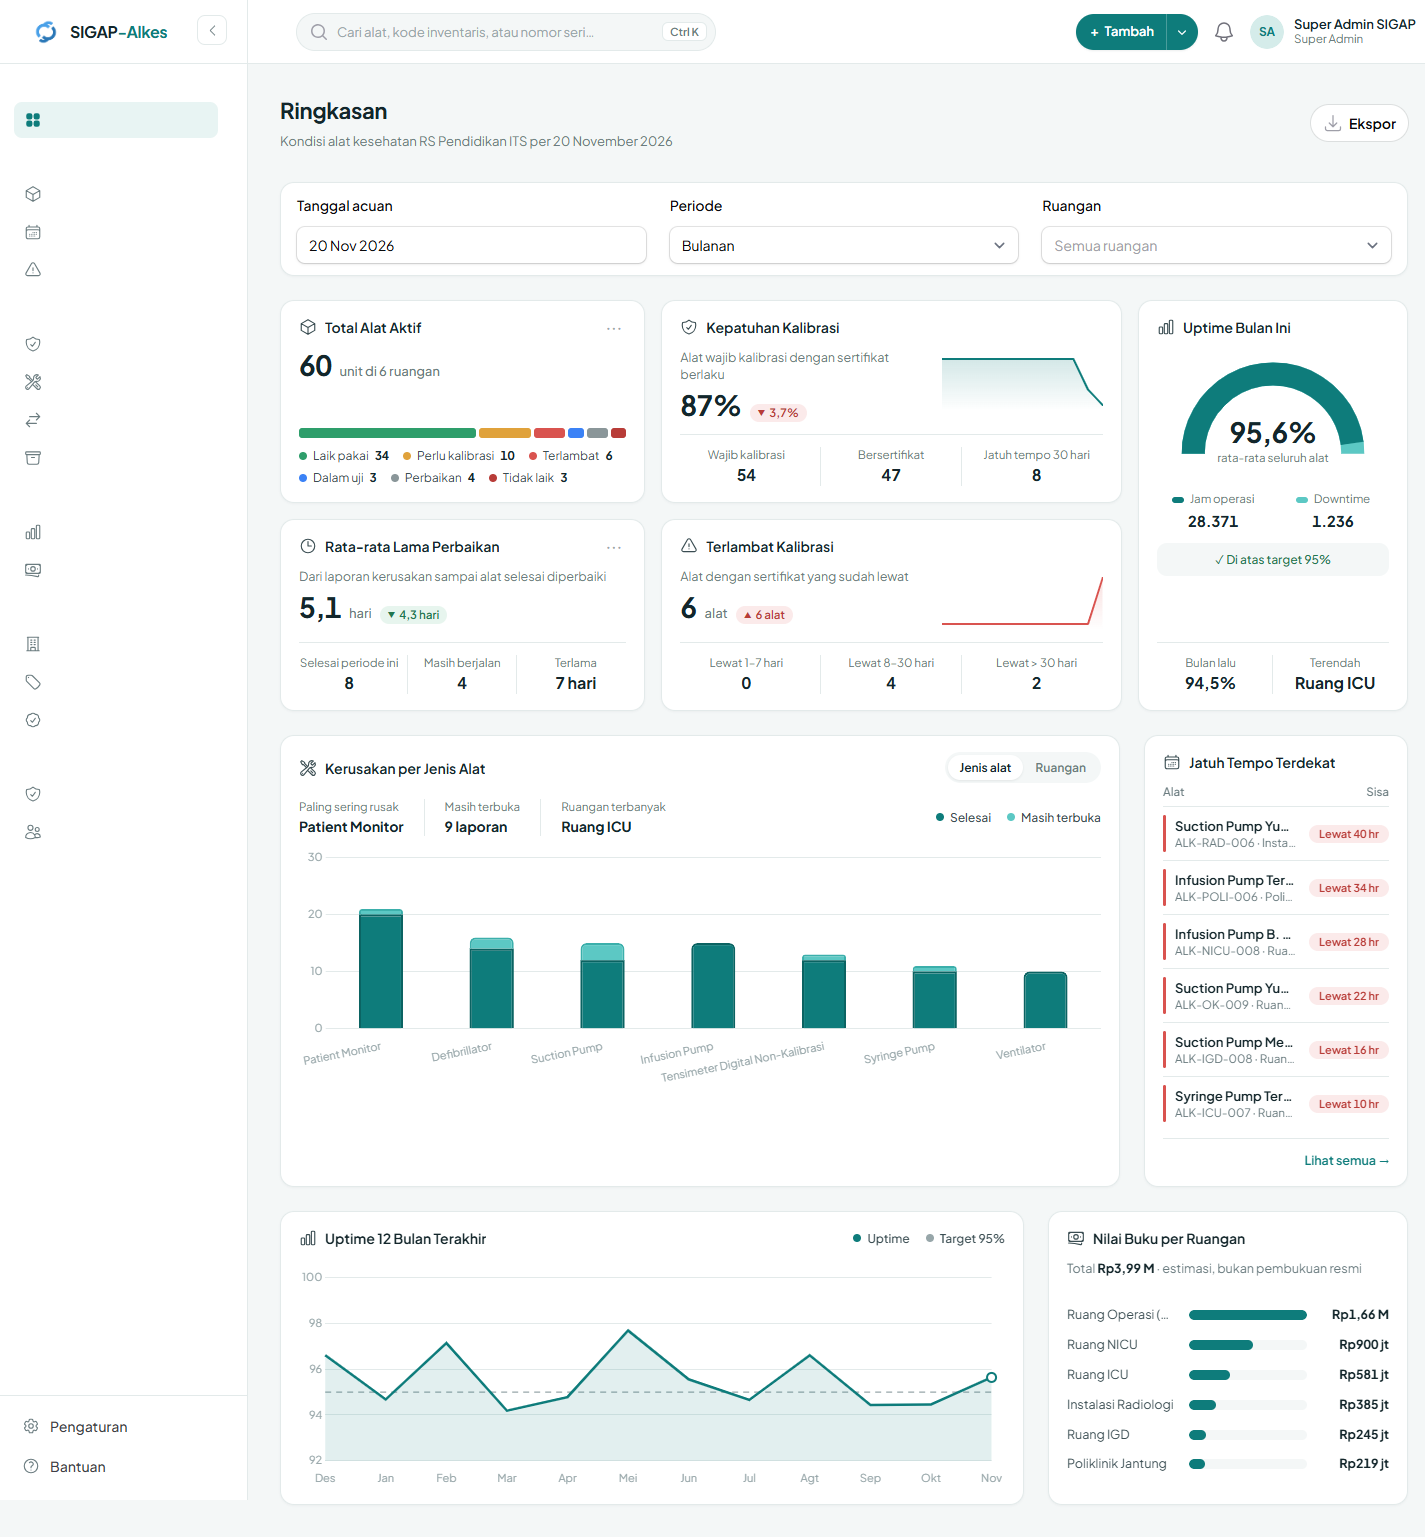
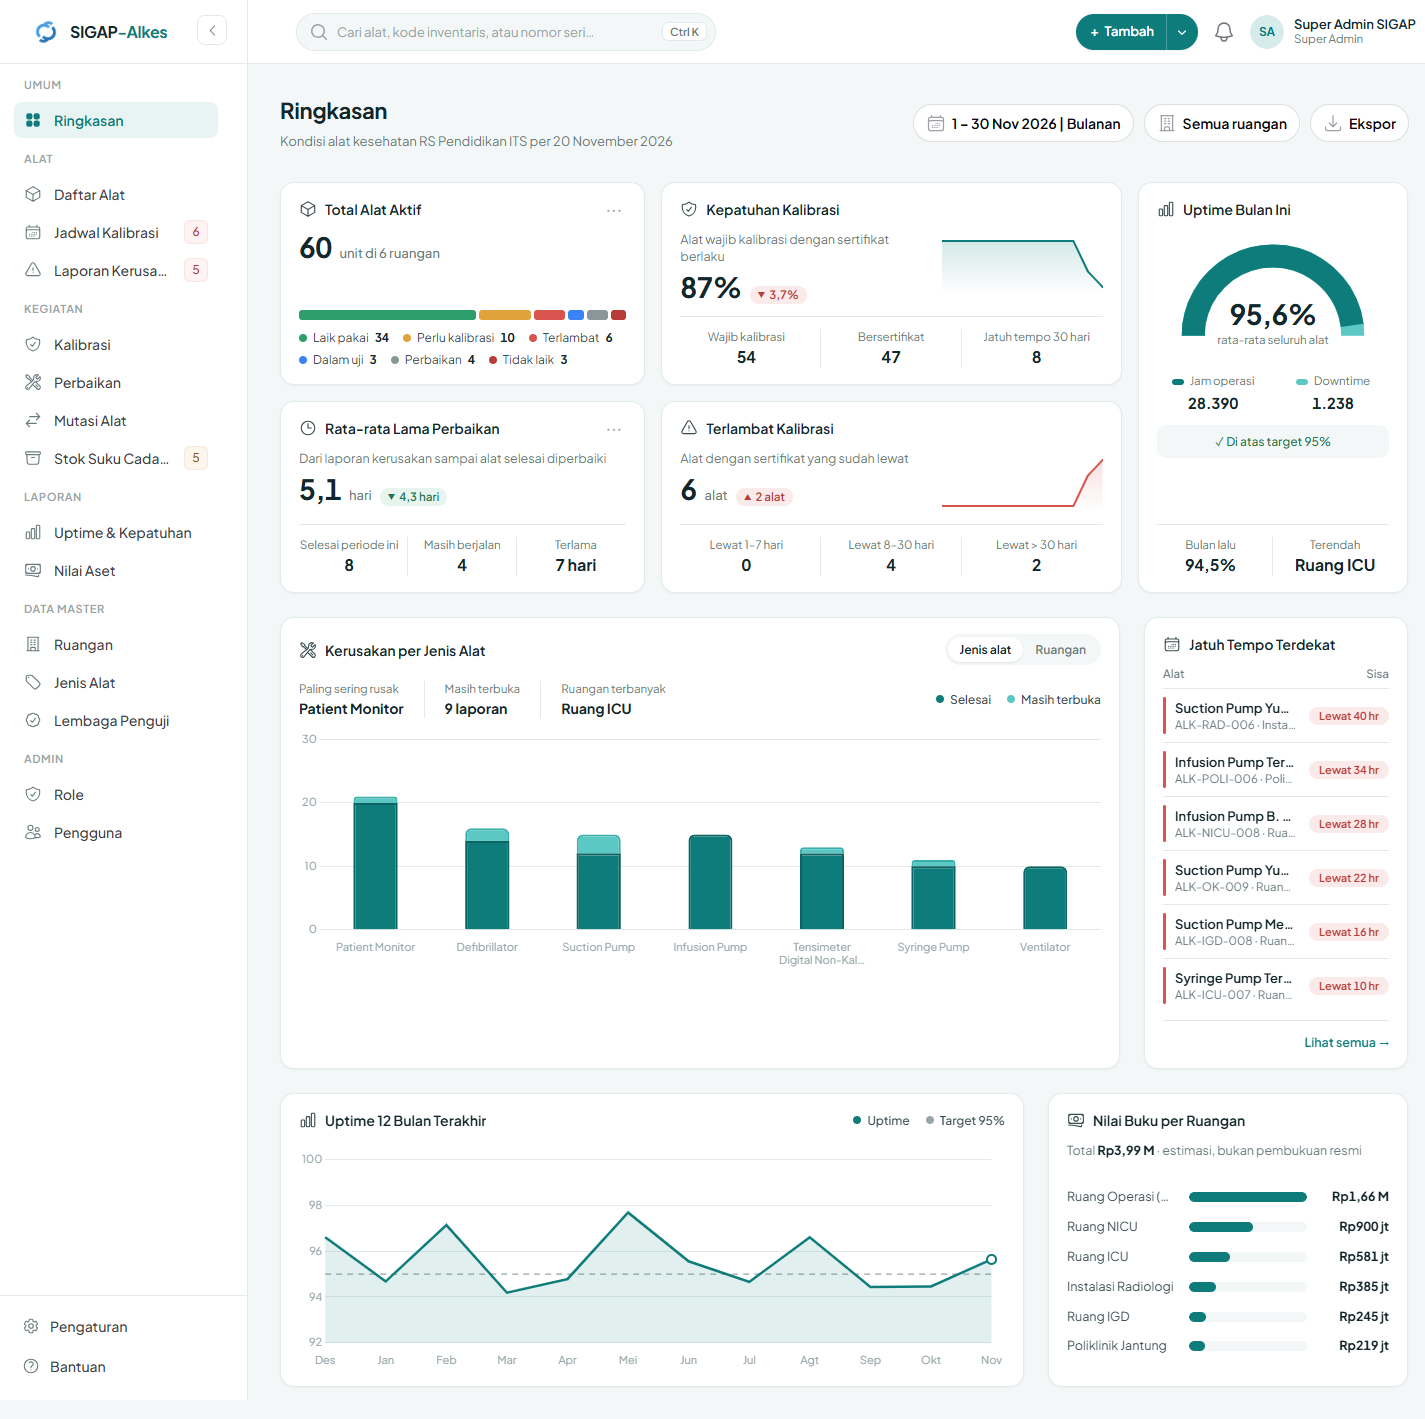
fix(dashboard): correct monthly trends, compact filters, chart labels

diff --git a/app/Filament/Pages/Dashboard.php b/app/Filament/Pages/Dashboard.php
@@ -21,9 +21,7 @@ use Filament\Actions\Action;
 use Filament\Forms\Components\DatePicker;
 use Filament\Forms\Components\Select;
 use Filament\Pages\Dashboard as BaseDashboard;
-use Filament\Pages\Dashboard\Concerns\HasFiltersForm;
-use Filament\Schemas\Components\Section;
-use Filament\Schemas\Schema;
+use Filament\Pages\Dashboard\Concerns\HasFiltersAction;
 use Filament\Support\Icons\Heroicon;
 use Illuminate\Support\Facades\Auth;
 use Symfony\Component\HttpFoundation\StreamedResponse;
@@ -31,7 +29,7 @@ use UnitEnum;
 
 class Dashboard extends BaseDashboard
 {
-    use HasFiltersForm;
+    use HasFiltersAction;
 
     protected static string|BackedEnum|null $navigationIcon = Heroicon::OutlinedSquares2x2;
 
@@ -62,49 +60,9 @@ class Dashboard extends BaseDashboard
         ];
     }
 
-    public function filtersForm(Schema $schema): Schema
-    {
-        if (! $this->isExecutiveRole()) {
-            return $schema->components([]);
-        }
-
-        return $schema->components([
-            Section::make()
-                ->columnSpanFull()
-                ->columns([
-                    'default' => 1,
-                    'sm' => 3,
-                ])
-                ->extraAttributes(['class' => 'sigap-dashboard-filters'])
-                ->schema([
-                    DatePicker::make('date')
-                        ->label('Tanggal acuan')
-                        ->default(now()->toDateString())
-                        ->native(false)
-                        ->displayFormat('d M Y')
-                        ->live(),
-                    Select::make('period')
-                        ->label('Periode')
-                        ->options([
-                            'monthly' => 'Bulanan',
-                            'weekly' => 'Mingguan',
-                            'daily' => 'Harian',
-                        ])
-                        ->default('monthly')
-                        ->selectablePlaceholder(false)
-                        ->live(),
-                    Select::make('room_id')
-                        ->label('Ruangan')
-                        ->placeholder('Semua ruangan')
-                        ->options(fn (): array => Room::query()->orderBy('name')->pluck('name', 'id')->all())
-                        ->searchable()
-                        ->preload()
-                        ->live(),
-                ]),
-        ]);
-    }
-
     /**
+     * Compact pill filter & export actions in the page header (§2.3 & §4.1).
+     *
      * @return array<Action>
      */
     protected function getHeaderActions(): array
@@ -113,7 +71,74 @@ class Dashboard extends BaseDashboard
             return [];
         }
 
+        $period = (string) ($this->filters['period'] ?? 'monthly');
+        $date = is_string($this->filters['date'] ?? null) ? $this->filters['date'] : now()->toDateString();
+        $roomId = filled($this->filters['room_id'] ?? null) ? (int) $this->filters['room_id'] : null;
+
+        $window = app(DashboardMetricsService::class)->resolvePeriod($period, $date);
+        $periodName = match ($period) {
+            'daily' => 'Harian',
+            'weekly' => 'Mingguan',
+            default => 'Bulanan',
+        };
+        $roomName = $roomId ? (Room::find($roomId)?->name ?? 'Ruangan') : 'Semua ruangan';
+
         return [
+            Action::make('filter_period')
+                ->label("{$window['label']}  |  {$periodName}")
+                ->icon(Heroicon::OutlinedCalendarDays)
+                ->color('gray')
+                ->modalHeading('Periode Ringkasan')
+                ->modalWidth('sm')
+                ->modalSubmitActionLabel('Terapkan')
+                ->fillForm([
+                    'date' => $date,
+                    'period' => $period,
+                ])
+                ->schema([
+                    DatePicker::make('date')
+                        ->label('Tanggal acuan')
+                        ->native(false)
+                        ->displayFormat('d M Y')
+                        ->required(),
+                    Select::make('period')
+                        ->label('Rentang periode')
+                        ->options([
+                            'monthly' => 'Bulanan',
+                            'weekly' => 'Mingguan',
+                            'daily' => 'Harian',
+                        ])
+                        ->selectablePlaceholder(false)
+                        ->required(),
+                ])
+                ->action(function (array $data): void {
+                    $this->filters['date'] = $data['date'] ?? now()->toDateString();
+                    $this->filters['period'] = $data['period'] ?? 'monthly';
+                }),
+
+            Action::make('filter_room')
+                ->label($roomName)
+                ->icon(Heroicon::OutlinedBuildingOffice)
+                ->color('gray')
+                ->modalHeading('Filter Ruangan')
+                ->modalWidth('sm')
+                ->modalSubmitActionLabel('Terapkan')
+                ->fillForm([
+                    'room_id' => $roomId,
+                ])
+                ->schema([
+                    Select::make('room_id')
+                        ->label('Ruangan')
+                        ->placeholder('Semua ruangan')
+                        ->options(fn (): array => Room::query()->orderBy('name')->pluck('name', 'id')->all())
+                        ->searchable()
+                        ->preload()
+                        ->nullable(),
+                ])
+                ->action(function (array $data): void {
+                    $this->filters['room_id'] = $data['room_id'] ?? null;
+                }),
+
             Action::make('export_pdf')
                 ->label('Ekspor')
                 ->icon(Heroicon::OutlinedArrowDownTray)

diff --git a/tests/Feature/UiRevampTahapBTest.php b/tests/Feature/UiRevampTahapBTest.php
@@ -227,3 +227,68 @@ it('shows each role only its designated dashboard widgets and hides all cost/ass
         true,
     ],
 ]);
+
+it('computes non-zero previous-month overdue count and accurate delta when equipment was already overdue last month', function () {
+    $this->seed(RoleAndPermissionSeeder::class);
+    Cache::flush();
+
+    $room = Room::create(['name' => 'Ruang Tren Uji', 'building' => 'Gedung B', 'floor' => '1']);
+    $type = EquipmentType::create(['name' => 'Infusion Pump Uji', 'requires_calibration' => true, 'calibration_interval_months' => 12, 'useful_life_years' => 5]);
+    $inst = TestingInstitution::create(['name' => 'BPFK Tren', 'kind' => 'bpafk', 'accreditation_number' => 'KAN-TREN-1']);
+
+    $lastMonthEnd = now()->startOfMonth()->subMonthNoOverflow()->endOfMonth();
+
+    // Eq 1: expired 10 days BEFORE last month end -> overdue both last month AND this month
+    $eq1 = Equipment::create([
+        'inventory_code' => 'TRN-001',
+        'name' => 'Pump Lama Terlambat',
+        'equipment_type_id' => $type->id,
+        'room_id' => $room->id,
+        'is_active' => true,
+        'acquisition_date' => now()->subYears(2)->toDateString(),
+        'acquisition_cost' => 10_000_000,
+        'residual_value' => 1_000_000,
+    ]);
+    $eq1->forceFill(['status' => EquipmentStatus::Overdue, 'created_at' => now()->subYear()])->saveQuietly();
+    Calibration::create([
+        'equipment_id' => $eq1->id,
+        'testing_institution_id' => $inst->id,
+        'tested_at' => $lastMonthEnd->copy()->subYear()->subDays(10)->toDateString(),
+        'valid_until' => $lastMonthEnd->copy()->subDays(10)->toDateString(),
+        'result' => CalibrationResult::Pass,
+        'certificate_number' => 'CERT-TRN-1',
+    ]);
+
+    // Eq 2: expired 2 days ago (in current month) -> valid at last month end, overdue this month
+    $eq2 = Equipment::create([
+        'inventory_code' => 'TRN-002',
+        'name' => 'Pump Baru Terlambat',
+        'equipment_type_id' => $type->id,
+        'room_id' => $room->id,
+        'is_active' => true,
+        'acquisition_date' => now()->subYears(2)->toDateString(),
+        'acquisition_cost' => 10_000_000,
+        'residual_value' => 1_000_000,
+    ]);
+    $eq2->forceFill(['status' => EquipmentStatus::Overdue, 'created_at' => now()->subYear()])->saveQuietly();
+    Calibration::create([
+        'equipment_id' => $eq2->id,
+        'testing_institution_id' => $inst->id,
+        'tested_at' => now()->subYear()->subDays(2)->toDateString(),
+        'valid_until' => now()->subDays(2)->toDateString(),
+        'result' => CalibrationResult::Pass,
+        'certificate_number' => 'CERT-TRN-2',
+    ]);
+
+    $service = app(DashboardMetricsService::class);
+    $top = $service->executiveTopMetrics('monthly', now()->toDateString(), $room->id);
+
+    $overdueSpark = $top['overdue']['sparkline'];
+    $prevMonthOverdue = $overdueSpark[count($overdueSpark) - 2];
+
+    // Last month had 1 overdue (eq1), this month has 2 overdue (eq1 + eq2) => delta = +1
+    expect($prevMonthOverdue)->toBe(1)
+        ->and($top['overdue']['count'])->toBe(2)
+        ->and($top['overdue']['delta'])->toBe(1)
+        ->and($top['overdue']['delta_label'])->toBe('1 alat');
+});

diff --git a/app/Services/DashboardMetricsService.php b/app/Services/DashboardMetricsService.php
@@ -96,7 +96,13 @@ class DashboardMetricsService
             $activeEquipment = Equipment::query()
                 ->where('is_active', true)
                 ->when($roomId, fn (Builder $q) => $q->where('room_id', $roomId))
-                ->with(['room', 'statusHistories', 'latestValidCalibration'])
+                ->with([
+                    'room',
+                    'equipmentType',
+                    'statusHistories',
+                    'latestValidCalibration',
+                    'calibrations' => fn ($q) => $q->where('result', CalibrationResult::Pass),
+                ])
                 ->get();
 
             // 1. Total Alat Aktif + 6-status counts
@@ -757,31 +763,33 @@ class DashboardMetricsService
             }
         }
 
-        // Reconstruct overdue count at end of each of the last 12 months from status_histories.
+        // Compute historical overdue count at end of each of the last 12 months from passed calibration certificates:
+        // active equipment requiring calibration whose latest passed certificate (tested_at <= pointEnd) has valid_until < pointDay.
+        $calibrationRequired = $activeEquipment->filter(fn (Equipment $eq): bool => (bool) $eq->equipmentType?->requires_calibration);
+
         $sparkline = [];
         for ($offset = 11; $offset >= 0; $offset--) {
-            $pointEnd = $offset === 0
-                ? $asOf->copy()
-                : $asOf->copy()->startOfMonth()->subMonthsNoOverflow($offset)->endOfMonth();
-
             if ($offset === 0) {
                 $sparkline[] = $overdueNow->count();
 
                 continue;
             }
 
+            $pointDay = $asOf->copy()->startOfMonth()->subMonthsNoOverflow($offset)->endOfMonth()->startOfDay();
+            $pointEnd = $pointDay->copy()->endOfDay();
+
             $countAtPoint = 0;
-            foreach ($activeEquipment as $eq) {
+            foreach ($calibrationRequired as $eq) {
                 if ($eq->created_at !== null && $eq->created_at->greaterThan($pointEnd)) {
                     continue;
                 }
 
-                $lastHistory = $eq->statusHistories
-                    ->filter(fn ($h) => $h->changed_at !== null && $h->changed_at->lessThanOrEqualTo($pointEnd))
-                    ->sortBy([['changed_at', 'asc'], ['id', 'asc']])
-                    ->last();
+                $latestAtPoint = $eq->calibrations
+                    ->filter(fn ($cal) => $cal->tested_at !== null && $cal->tested_at->copy()->startOfDay()->lessThanOrEqualTo($pointEnd))
+                    ->sortByDesc(fn ($cal) => $cal->tested_at->timestamp)
+                    ->first();
 
-                if ($lastHistory && $lastHistory->to_status === EquipmentStatus::Overdue) {
+                if ($latestAtPoint && $latestAtPoint->valid_until !== null && $latestAtPoint->valid_until->copy()->startOfDay()->lessThan($pointDay)) {
                     $countAtPoint++;
                 }
             }

diff --git a/app/Filament/Widgets/DamagesBreakdownChart.php b/app/Filament/Widgets/DamagesBreakdownChart.php
@@ -87,8 +87,43 @@ class DamagesBreakdownChart extends ChartWidget
                     'stack' => 'damages',
                 ],
             ],
-            'labels' => array_map(fn (array $item): string => $item['label'], $items),
+            'labels' => array_map(fn (array $item): string|array => $this->wrapLabel($item['label']), $items),
         ];
+    }
+
+    /**
+     * Wrap long category labels onto at most 2 short horizontal lines (max 16 chars each)
+     * so the X-axis stays completely horizontal while Chart.js tooltips still display the full name.
+     *
+     * @return string|array<int, string>
+     */
+    private function wrapLabel(string $label, int $maxLine = 16): string|array
+    {
+        if (mb_strlen($label) <= $maxLine) {
+            return $label;
+        }
+
+        $words = preg_split('/\s+/', trim($label)) ?: [$label];
+        $line1 = '';
+        $line2 = '';
+
+        foreach ($words as $word) {
+            if ($line1 === '' || mb_strlen($line1.' '.$word) <= $maxLine) {
+                $line1 = $line1 === '' ? $word : $line1.' '.$word;
+            } else {
+                $line2 = $line2 === '' ? $word : $line2.' '.$word;
+            }
+        }
+
+        if ($line2 === '') {
+            return mb_substr($line1, 0, $maxLine - 1).'…';
+        }
+
+        if (mb_strlen($line2) > $maxLine) {
+            $line2 = mb_substr($line2, 0, $maxLine - 1).'…';
+        }
+
+        return [$line1, $line2];
     }
 
     protected function getOptions(): array
@@ -114,6 +149,9 @@ class DamagesBreakdownChart extends ChartWidget
                     'ticks' => [
                         'color' => '#97A6A9',
                         'font' => ['size' => 11],
+                        'maxRotation' => 0,
+                        'minRotation' => 0,
+                        'autoSkip' => false,
                     ],
                 ],
                 'y' => [

diff --git a/docs/assumptions.md b/docs/assumptions.md
@@ -106,3 +106,7 @@ Dokumen ini mencatat asumsi teknis dan bisnis yang diambil selama pengembangan p
 - **Grafik stacked bar Kerusakan**: Porsi "Masih terbuka" memakai warna `aqua` (`#5CC8C4`) polos di Chart.js (sesuai opsi resmi di `design.md` §3.8) agar tidak perlu menambah library eksternal.
 - **Target uptime**: Ditambahkan sebagai pengaturan baru `asset.uptime_target_percent` (default `95%`) di Tab Nilai Aset pada Pengaturan Aplikasi.
 - **Cache dashboard**: Semua agregasi di `DashboardMetricsService` di-cache 10 menit per kombinasi filter (`period`, `date`, `room_id`, `group_by`).
+
+### Perbaikan Dashboard Tahap B
+- **Sumber tunggal tren historis Kepatuhan & Terlambat**: Dihitung dari sertifikat kalibrasi lulus (`calibrations.result = pass` dengan `tested_at <= akhir bulan` dan `valid_until` dibandingkan terhadap akhir bulan) untuk 12 titik akhir bulan. Dipilih karena seeder tidak menulis snapshot `status_histories` harian untuk bulan lampau, sehingga sertifikat menjadi sumber data historis yang akurat dan konsisten antara Kepatuhan dan Terlambat.
+- **Filter dashboard ringkas**: Kartu `filtersForm` besar dihapus dan diganti 3 tombol pill sejajar di kanan header halaman (`[📅 1 – 30 Nov 2026 | Bulanan]`, `[Semua ruangan]`, `[Ekspor]`) via `HasFiltersAction` + modal kecil Filament 5.
